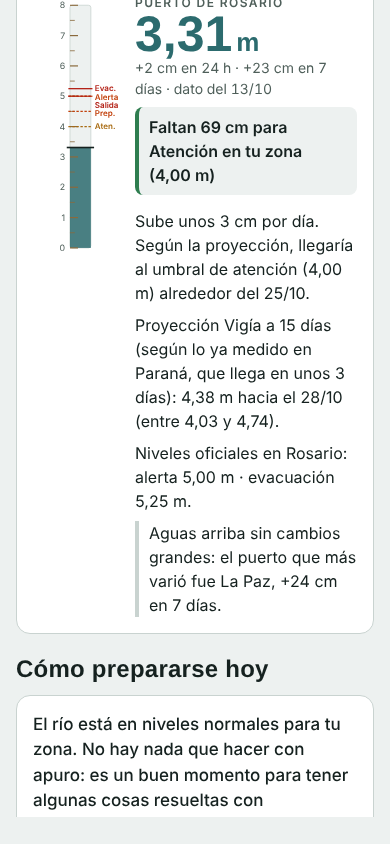
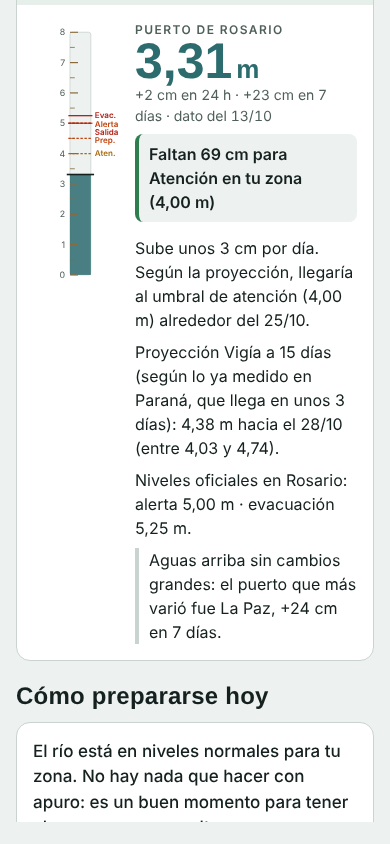
Asterisco en la leyenda y explicación de la Proyección Vigía al pie
Claude-Session: https://claude.ai/code/session_01EvfbsbDs6XQPSvha7pPTLa

Changed region(s): [[0.0308, 0.0, 0.9538, 0.9858]]

diff --git a/index.html b/index.html
@@ -13,7 +13,7 @@
 <link rel="preconnect" href="https://fonts.gstatic.com" crossorigin>
 <link rel="stylesheet" href="https://fonts.googleapis.com/css2?family=Barlow+Condensed:wght@600;700&family=IBM+Plex+Sans:wght@400;500;600&display=swap">
 <link rel="stylesheet" href="https://cdnjs.cloudflare.com/ajax/libs/leaflet/1.9.4/leaflet.min.css" crossorigin="">
-<link rel="stylesheet" href="app.css?v=ae868f00">
+<link rel="stylesheet" href="app.css?v=331b8d58">
 </head>
 <body>
 <a class="skip" href="#estado">Ir al estado</a>
@@ -151,12 +151,12 @@
       <li>Clima: <a href="https://www.smn.gob.ar" target="_blank" rel="noopener">Servicio Meteorológico Nacional</a>.</li>
       <li>Noticias: medios de la región, resumidas con enlace a la nota original.</li>
     </ul>
-    <p>La línea de <em>tendencia</em> en el gráfico y los «días hasta cada umbral» son una extrapolación de la última semana hecha por esta app; no son pronóstico oficial. Si arriba dice «Datos viejos», la actualización automática falló: no te guíes por esta página.</p>
+    <p id="como-proyecta"><b>* Cómo se calcula la Proyección Vigía.</b> No es un pronóstico oficial: es una estimación propia de esta app. La idea es simple: el agua que hoy pasa por un puerto de aguas arriba llega al tuyo unos días después. Para cada ciudad, la app revisó tres años de alturas del INA y encontró qué puerto de arriba y con cuántos días de retraso explica mejor sus subidas y bajadas (por ejemplo, Santa Fe sigue a Hernandarias con unos 2 días de diferencia). Con eso, la proyección toma lo que ya subió o bajó aguas arriba y lo traslada a tu puerto; para los días que todavía no tienen dato de arriba, prolonga la tendencia reciente, cada vez con menos peso. La banda de error no es un adorno: es el error real que ese mismo cálculo tuvo al ponerlo a prueba contra el pasado, a 1, 7 y 15 días. El modelo se recalibra solo cada lunes. No sabe de lluvias locales, del río Salado ni de maniobras nuevas en las represas, así que cuando hay pronóstico del INA, el del INA manda. Si arriba dice «Datos viejos», la actualización automática falló: no te guíes por esta página.</p>
     <p id="resumenFoot"></p>
     <p class="small">Código abierto: <a id="repoLink" href="#" target="_blank" rel="noopener">GitHub</a>. Hecho en Santa Fe, Argentina.</p>
   </footer>
 </div>
 <script src="https://cdnjs.cloudflare.com/ajax/libs/leaflet/1.9.4/leaflet.min.js" crossorigin=""></script>
-<script src="app.js?v=ae868f00"></script>
+<script src="app.js?v=331b8d58"></script>
 </body>
 </html>

diff --git a/app.js b/app.js
@@ -436,7 +436,7 @@ function drawChart(serie,fc,t,sl,proj){
   svg.appendChild(svgEl("circle",{cx:x(last[0]),cy:y(last[1]),r:5,fill:"var(--water)"}));
   svg.appendChild(svgEl("text",{x:x(last[0])-8,y:y(last[1])-9,"text-anchor":"end","font-size":12,fill:"var(--ink)","font-weight":600},fmt(last[1])+" m"));
   var c=$("chart"); c.textContent=""; c.appendChild(svg);
-  $("legend").innerHTML='<span><i style="background:var(--water)"></i>Medido</span>'+(fpts.length?'<span><i style="background:var(--silt)"></i>Pronóstico INA (central y rango)</span>':'')+(proj?'<span><i style="background:var(--water);opacity:.6"></i>Proyección Vigía y banda de error</span>':'<span><i style="background:var(--muted)"></i>Tendencia '+HORIZONTE+' días (estimación propia)</span>');
+  $("legend").innerHTML='<span><i style="background:var(--water)"></i>Medido</span>'+(fpts.length?'<span><i style="background:var(--silt)"></i>Pronóstico INA (central y rango)</span>':'')+(proj?'<span><i style="background:var(--water);opacity:.6"></i>Proyección Vigía y banda de error <a href="#como-proyecta" class="ast" title="Cómo se calcula">*</a></span>':'<span><i style="background:var(--muted)"></i>Tendencia '+HORIZONTE+' días (estimación propia)</span>');
   if(proj){ var M=D.modelo.estaciones[String(state.loc.estacion)]; $("chartNote").textContent="La proyección Vigía usa lo que ya se midió en "+M.up_nombre+", que llega a este puerto unos "+M.lag+" días después (hasta \"ya en camino\" es dato medido aguas arriba; después, prolongación). La banda es el error real del método en los últimos "+(D.modelo.anios||3)+" años. Cuando el INA publica pronóstico, vale el INA."; }
   else { $("chartNote").textContent="La tendencia prolonga el ritmo de la última semana; sirve para orientarse, no reemplaza al pronóstico del INA."; }
 }

diff --git a/sw.js b/sw.js
@@ -1,5 +1,5 @@
 /* Cache mínimo: la app abre sin conexión con los últimos datos vistos. */
-var CACHE = "vigia-ae868f00";
+var CACHE = "vigia-331b8d58";
 var APP = ["./", "index.html", "app.css", "app.js", "manifest.json", "icono.svg"];
 self.addEventListener("install", function(e){ e.waitUntil(caches.open(CACHE).then(function(c){ return c.addAll(APP); })); self.skipWaiting(); });
 self.addEventListener("activate", function(e){ e.waitUntil(caches.keys().then(function(ks){ return Promise.all(ks.filter(function(k){return k!==CACHE;}).map(function(k){return caches.delete(k);})); })); self.clients.claim(); });

diff --git a/app.css b/app.css
@@ -138,3 +138,6 @@ footer ul.fuentes{margin:0;padding-left:20px;display:flex;flex-direction:column;
 tr.here td{background:var(--water-soft)}
 
 @media (max-width:374px){.wrap{padding-inline:12px} table{font-size:12.5px} .stack{font-size:12px} .stack .lvl{font-size:14.5px} .meter{width:44px}}
+
+.ast{text-decoration:none;font-weight:700;margin-left:2px}
+#como-proyecta{scroll-margin-top:12px}
